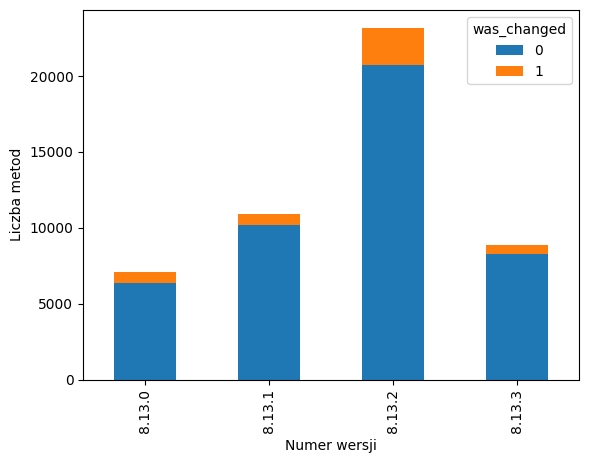
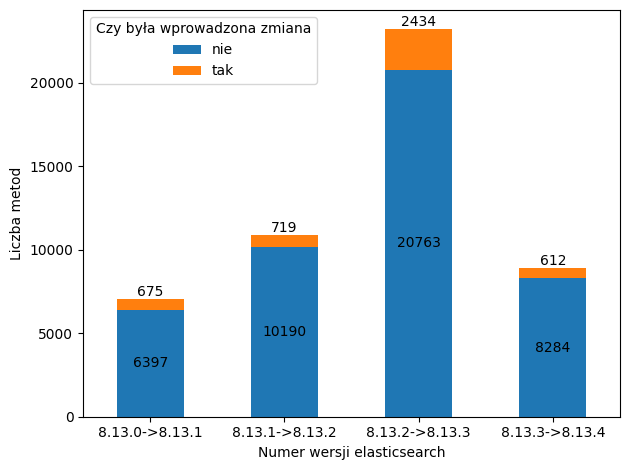
displaying stats for data for roc curve - part 2

Changed region(s): [[0.0, 0.0, 1.0, 0.9978], [0.8251, 0.514, 0.9474, 0.6048], [0.8557, 0.7257, 0.9168, 0.7559]]

diff --git a/roc_curve/plot_changed_data_stats.py b/roc_curve/plot_changed_data_stats.py
@@ -4,27 +4,40 @@ import matplotlib.pyplot as plt
 df = pd.read_csv('change_data.csv')
 
 commit_map = {
-        'e6b43a17099eff099a05572ff0b2724485e54211': '8.13.4',
-        '7eae95620b41c8c42a647b059b096703b4d510f4': '8.13.3',
-        '95c7c0978020de5bac685802655bfab3f475e628': '8.13.2',
-        'f7fedb4d0aec5dc60bf52bb4c460584d08a236ce': '8.13.1',
-        '93a21e1b14c6ca611b477360c7c7f65846bd364e': '8.13.0'
-    }
+    'e6b43a17099eff099a05572ff0b2724485e54211': '8.13.4->8.13.5',
+    '7eae95620b41c8c42a647b059b096703b4d510f4': '8.13.3->8.13.4',
+    '95c7c0978020de5bac685802655bfab3f475e628': '8.13.2->8.13.3',
+    'f7fedb4d0aec5dc60bf52bb4c460584d08a236ce': '8.13.1->8.13.2',
+    '93a21e1b14c6ca611b477360c7c7f65846bd364e': '8.13.0->8.13.1'
+}
 
 
 def extract_id(path):
     parts = path.split('/')
     if len(parts) >= 8:
-        return commit_map[parts[7]]
+        return commit_map.get(parts[7])
     return None
 
 
-df['ID'] = df['OriginalFilePath'].apply(extract_id)
+df['Numer wersji'] = df['OriginalFilePath'].apply(extract_id)
+df['czy była wprowadzona zmiana'] = df['was_changed'].map({1: 'tak', 0: 'nie'})
 
-summary = df.groupby(['ID', 'was_changed']).size().unstack(fill_value=0)
+summary = df.groupby(['Numer wersji', 'czy była wprowadzona zmiana']).size().unstack(fill_value=0)
+ax = summary.plot(kind='bar', stacked=True)
 
-summary.plot(kind='bar', stacked=True)
-# plt.title('Change Summary per ID')
-plt.xlabel('Numer wersji')
+for i, (idx, row) in enumerate(summary.iterrows()):
+    cum_value = 0
+    for col in summary.columns:
+        value = row[col]
+        if col == 'tak':
+            ax.text(i, cum_value + value, int(value), ha='center', va='bottom')  # Place above the bar for 'tak'
+        else:
+            ax.text(i, cum_value + value/2, int(value), ha='center', va='center')  # Place inside the bar for 'nie'
+        cum_value += value
+
+plt.xlabel('Numer wersji elasticsearch')
 plt.ylabel('Liczba metod')
+plt.xticks(rotation=0)
+plt.legend(title='Czy była wprowadzona zmiana')
+plt.tight_layout()
 plt.savefig("plot_change_data_stats.png", bbox_inches='tight')
